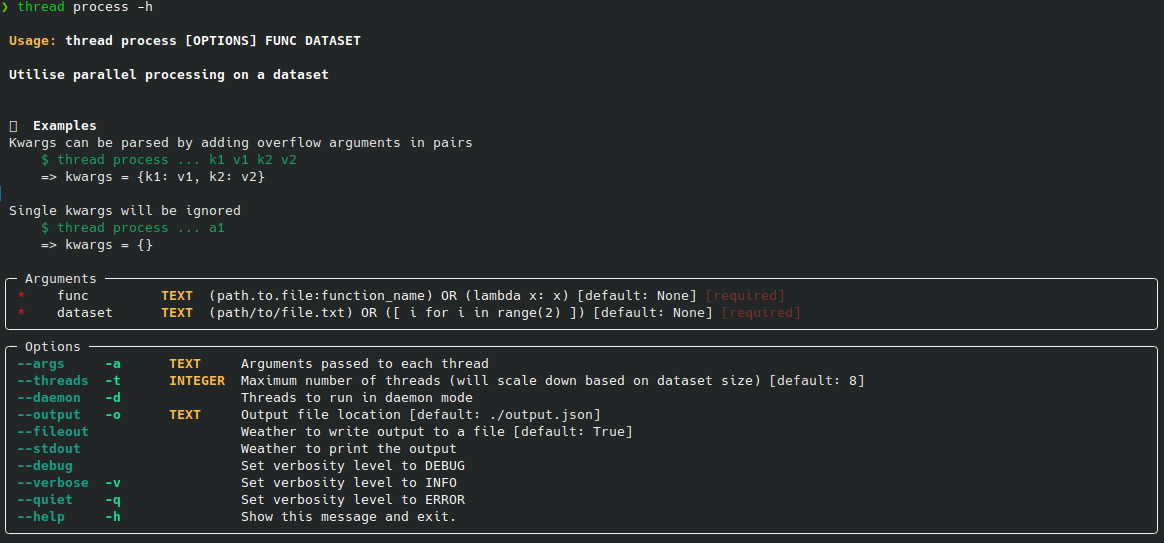
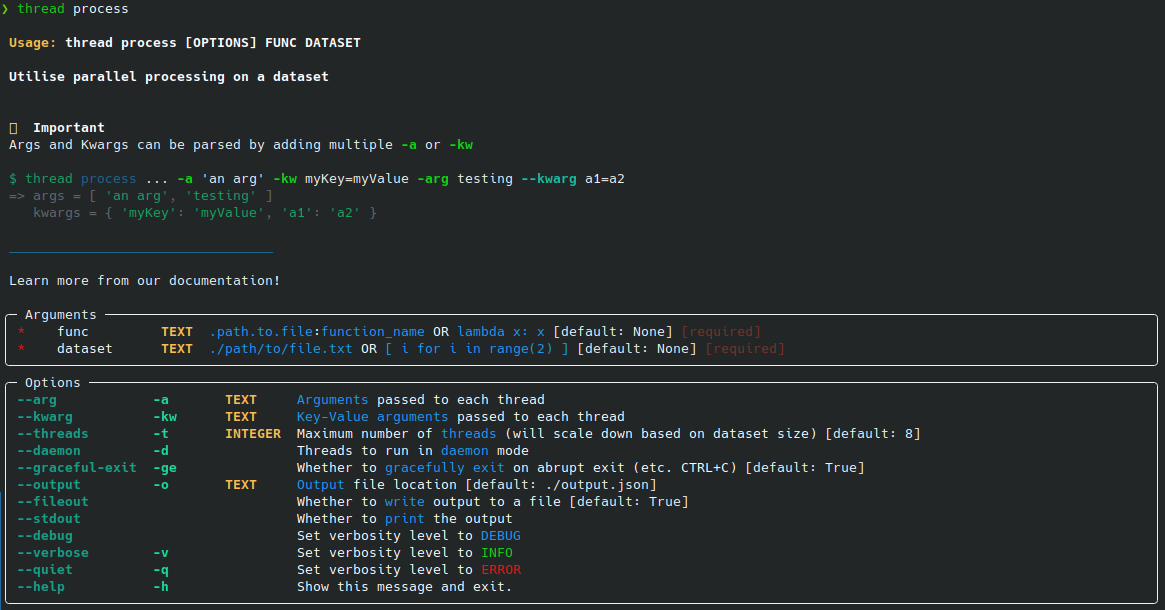
+ Documentation update

diff --git a/docs/command-line.md b/docs/command-line.md
@@ -6,13 +6,21 @@ I will lay out how to use the comamnd line!
 <details>
   <summary>Jump to</summary>
   <ul>
-    <li><a href='#importing-the-class'> Import the class</a></li>
-    <li><a href='#initializing-a-thread'> Initialize a thread </a></li>
-    <li><a href='#parameters'> Parameters </a></li>
-    <li><a href='#attributes'> Attributes </a></li>
-    <li><a href='#methods'> Class Methods </a></li>
-    <li><a href='#behviours'> Behaviours </a></li>
+    <li><a href='#getting-started'> Getting Started </a></li>
+    <li><a href='#log-levels'> Log Levels </a></li>
+    <li><a href='#commands'> Commands </a></li>
+    <details>
+      <summary>List</summary>
+      <ul>
+        <li><a href='#documentation-thread-docs'> thread docs </a></li>
+        <li><a href='#help-thread-help'> thread help </a></li>
+        <li><a href='#report-thread-report'> thread report </a></li>
+        <li><a href='#configuration-thread-config'> thread config </a></li>
+        <li><a href='#parallel-processing-thread-process'> thread process ... </a></li>
+      </ul>
+    </details>
   </ul>
+    
 </details>
 
 
@@ -58,6 +66,9 @@ List of commands
 
 ### Documentation (thread docs)
 
+```sh
+$ thread docs
+```
 Ran with no arguments and options, this command will attempt to open your brower to this MD file!
 <br />
 If unable, will instead print out the link.
@@ -67,6 +78,9 @@ If unable, will instead print out the link.
 
 ### Help (thread help)
 
+```sh
+$ thread help
+```
 Ran with no arguments and options, this command will attempt to open your brower to the issue tracker!
 <br />
 If unable, will instead print out the link.
@@ -76,6 +90,9 @@ If unable, will instead print out the link.
 
 ### Report (thread report)
 
+```sh
+$ thread report
+```
 Ran with no arguments and options, this command will attempt to open your brower to this MD file!
 <br />
 If unable, will instead print out the link.
@@ -85,6 +102,9 @@ If unable, will instead print out the link.
 
 ### Configuration (thread config ...)
 
+```sh
+$ thread config
+```
 Comming soon.
 
 
@@ -93,7 +113,11 @@ Comming soon.
 
 ### Parallel Processing (thread process ...)
 
+```sh
+$ thread process
+```
 Invokes the [parallel processing class](parallel-processing.md#importing-the-class)<br />
+<br />
 
 > **Help Command Output**
 
@@ -107,7 +131,7 @@ $ thread process 'lambda x: x**2' '[ i for i in range(1000) ]'
 $ thread process home.Downloads.clean_data:clean ./dataset.csv -t 20
 => The same as:
   from home.Downloads.clean_data import clean
-  dataset = open('dataset.csv', 'r')
+  dataset = open('./dataset.csv', 'r')
 
   newProcess = ParallelProcess(
     target = clean,
@@ -115,6 +139,7 @@ $ thread process home.Downloads.clean_data:clean ./dataset.csv -t 20
     max_threads = 20
   )
   newProcess.start()
+  dataset.close()
 
   prints or writes to file the result
 ```

diff --git a/docs/configuration.md b/docs/configuration.md
@@ -1,0 +1,43 @@
+# Thread Configuration Documentation
+
+I will lay out the configuration options!
+
+<br />
+<details>
+  <summary>Jump to</summary>
+  <ul>
+    <li><a href='#importing-the-class'> Import the class </a></li>
+    <li><a href='#graceful-exiting'> Graceful Exit </a></li>
+  </ul>
+</details>
+
+
+Don't have the thread library? [See here](./getting-started.md) for installing thread
+
+---
+
+## Importing the class
+
+```py
+from thread import Thread
+```
+
+<br />
+
+
+## Graceful Exiting
+
+```py
+from thread import Settings
+
+# Enable/Disable graceful exiting
+Settings.set_graceful_exit(True)
+Settings.set_graceful_exit(False)
+```
+
+<br />
+
+
+Now you know the configuration options available!
+
+[See here](./parallel-processing.md) for how to using the `thread.ParallelProcessing` class!

diff --git a/docs/threading.md b/docs/threading.md
@@ -6,7 +6,7 @@ I will lay out how to use the `thread.Thread` class!
 <details>
   <summary>Jump to</summary>
   <ul>
-    <li><a href='#importing-the-class'> Import the class</a></li>
+    <li><a href='#importing-the-class'> Import the class </a></li>
     <li><a href='#initializing-a-thread'> Initialize a thread </a></li>
     <li><a href='#parameters'> Parameters </a></li>
     <li><a href='#attributes'> Attributes </a></li>
